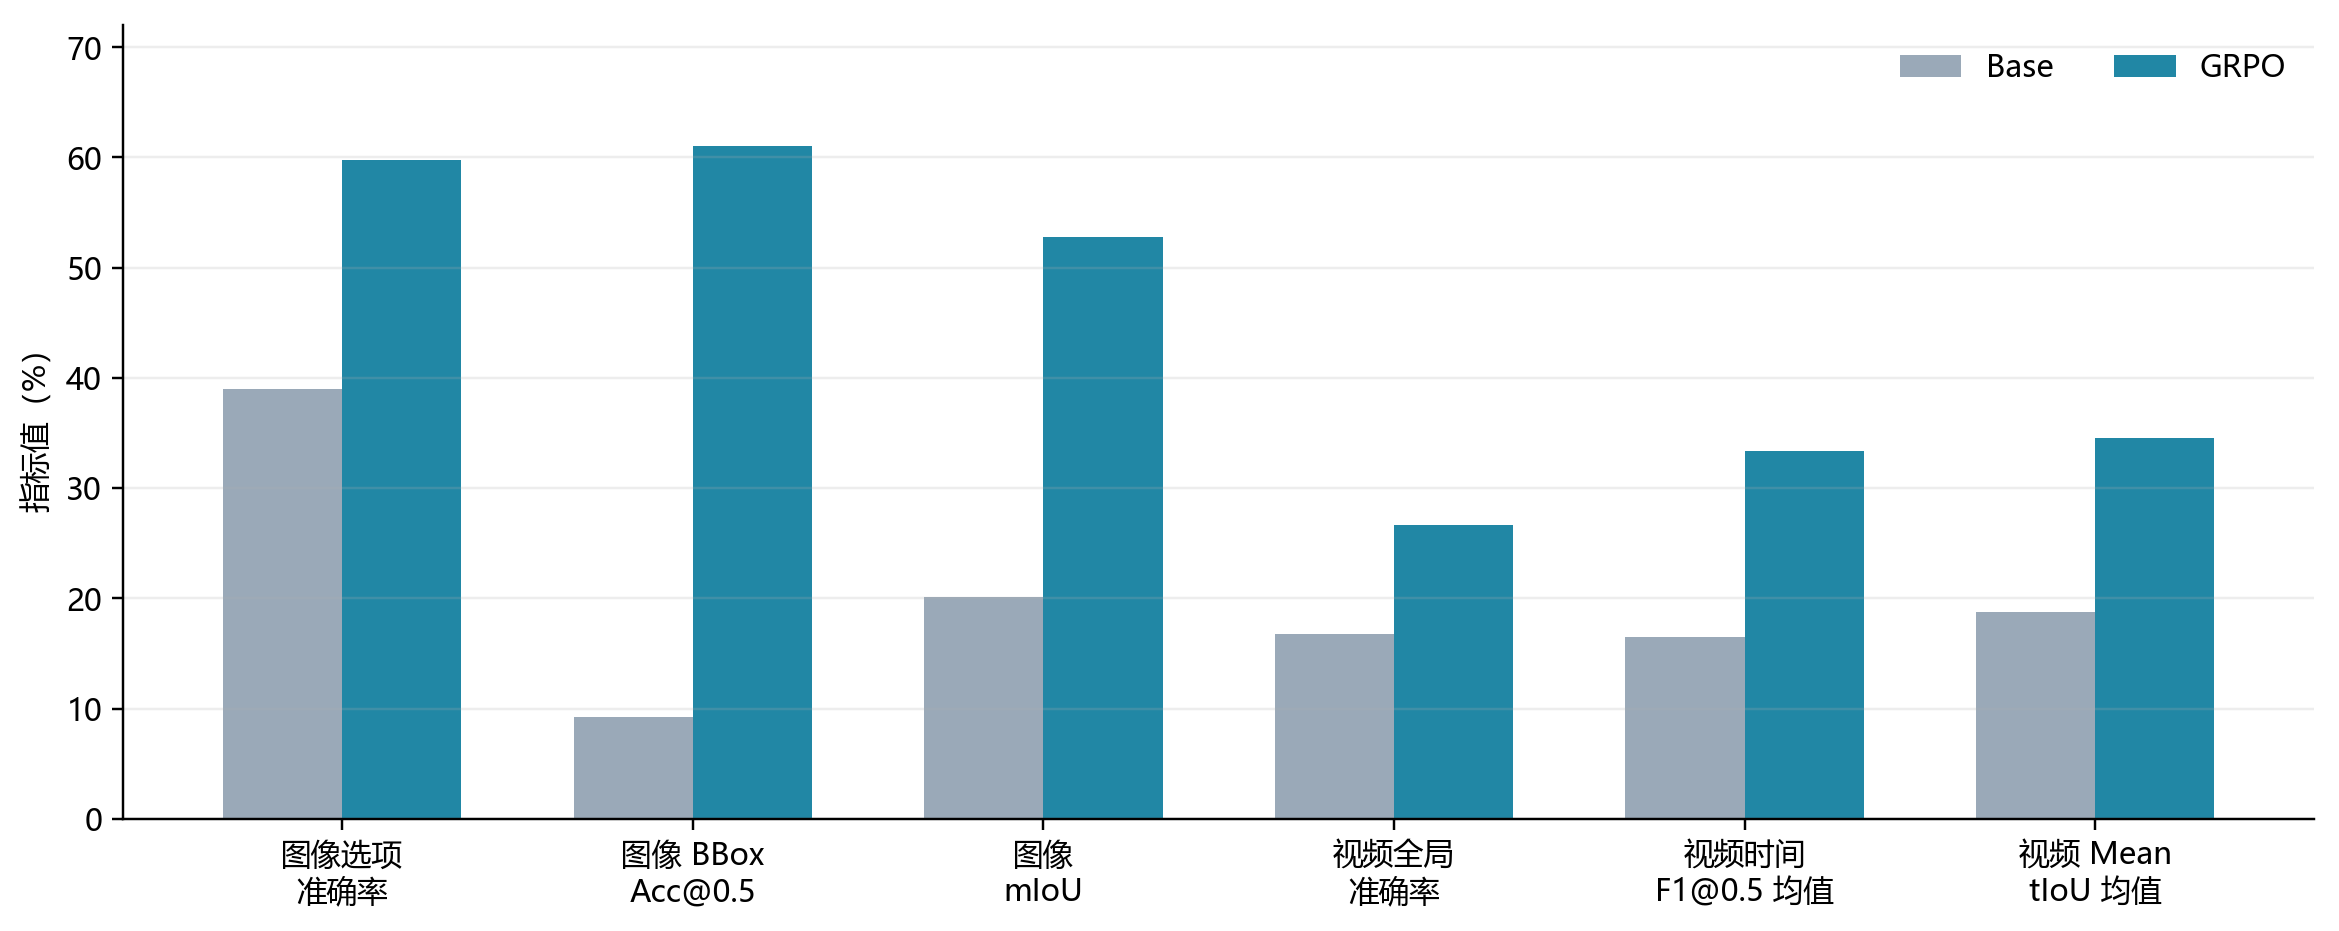
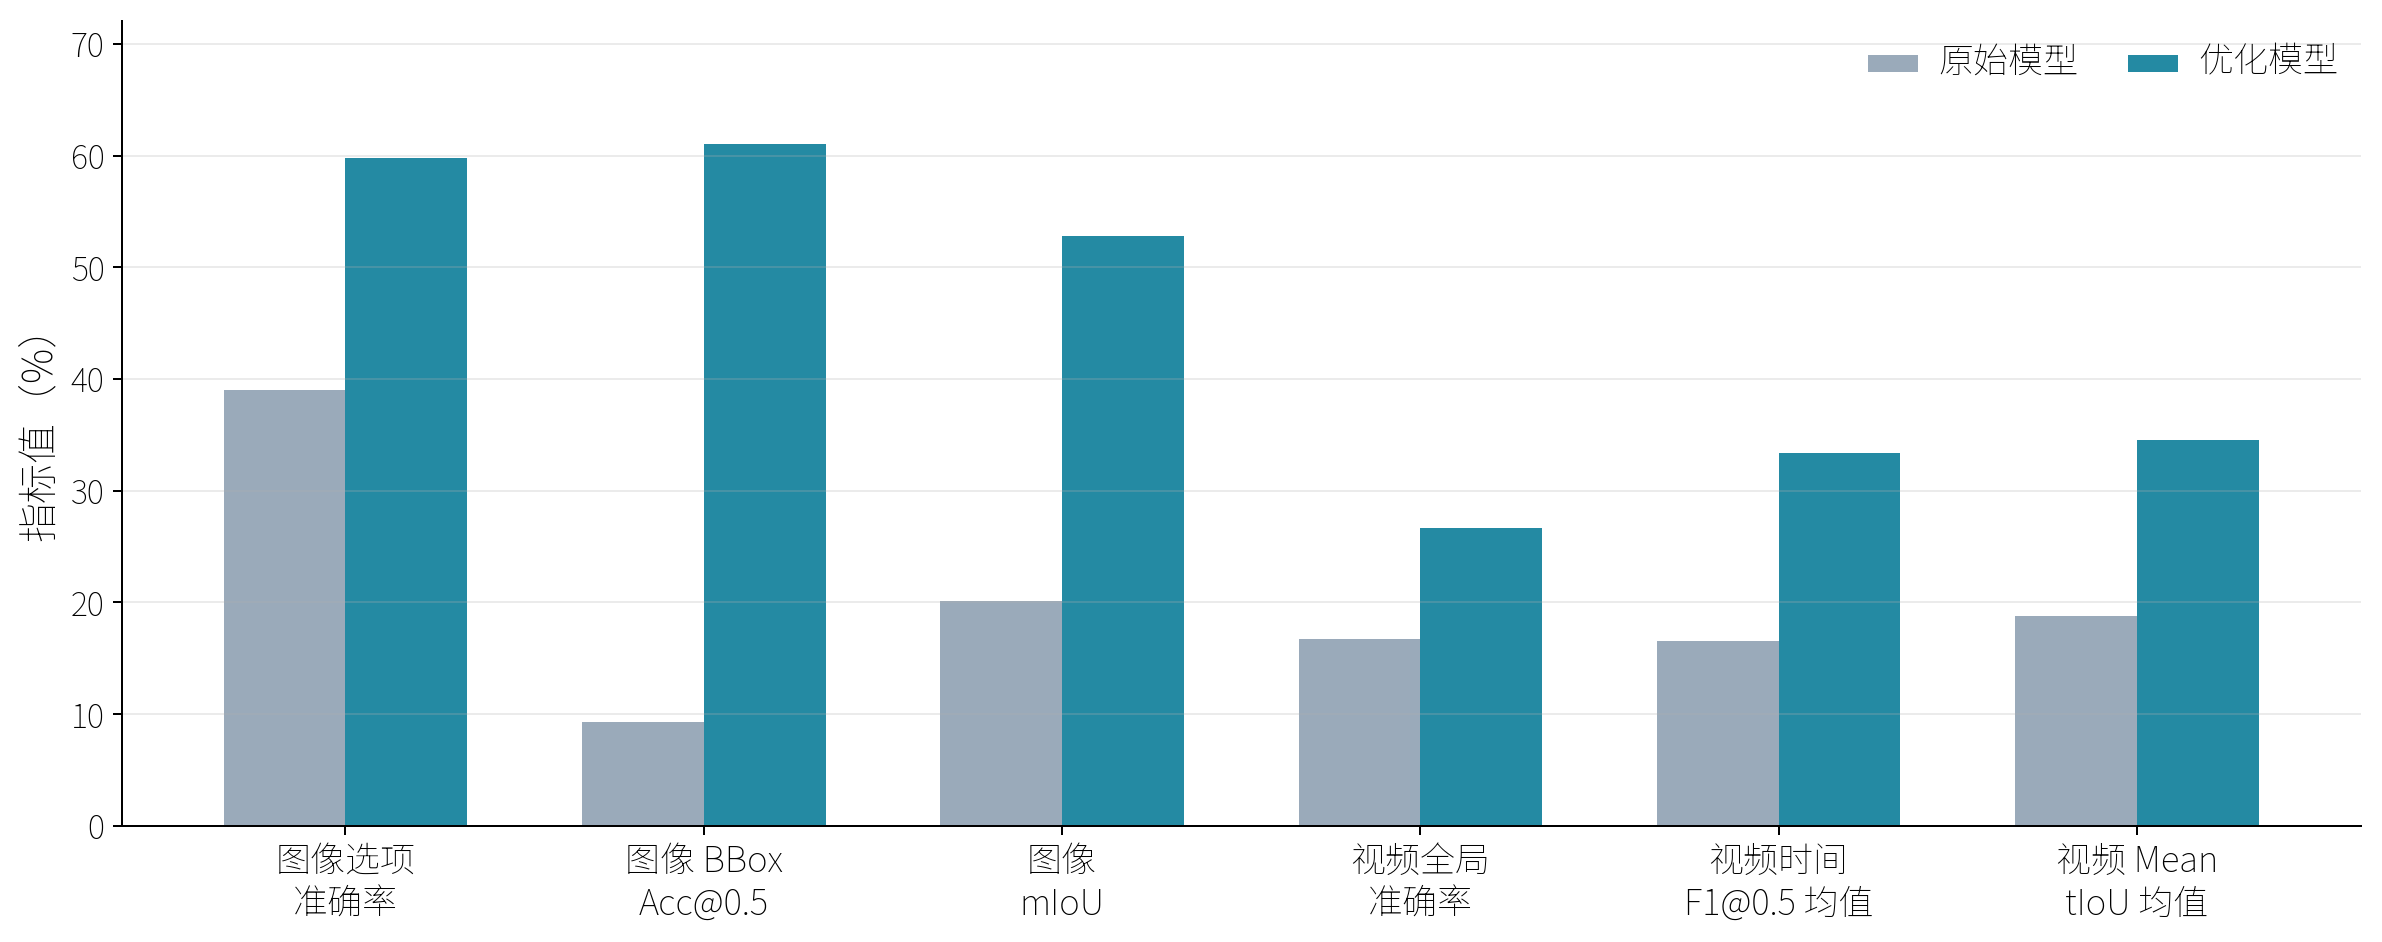
add: Add web UI appendix

diff --git a/content/thesis/undergraduate/chapter4.tex b/content/thesis/undergraduate/chapter4.tex
@@ -6,7 +6,7 @@
 
 \subsection{构建目标与场景隔离}
 
-第3章的评测结果表明，当前多模态大模型在 UAV-DualCog 上的主要问题是难以同时保持答案正确、证据可靠、跨媒介稳定以及自我状态认知与环境情况认知之间的协调发展。尤其是在图像任务中，模型常表现为选项判断相对较强、空间证据明显偏弱；在双认知维度上，自我状态认知长期落后于环境情况认知。因此，本文在测试基准之外进一步构建了面向后训练优化的图像任务训练集 UAV-DualCog-Train，并据此设计“监督微调+联合 GRPO”的能力优化方法。
+第3章的评测结果表明，当前多模态大模型在 UAV-DualCog 上的主要问题是难以同时保持答案正确、证据可靠、跨媒介稳定以及自我状态认知与环境情况认知之间的协调发展。尤其是在图像任务中，模型常表现为选项判断相对较强、空间证据明显偏弱；在双认知维度上，自我状态认知长期落后于环境情况认知。因此，本文在测试基准之外进一步构建了面向后训练优化的图像任务训练集 UAV-DualCog-Train，并据此设计“监督微调（Supervised Fine-Tuning, SFT）+联合群组相对策略优化（Group Relative Policy Optimization, GRPO）”的能力优化方法。
 
 UAV-DualCog-Train 使用与测试集严格隔离的训练场景构建，包含 \texttt{env\_1}、\texttt{env\_3}、\texttt{env\_5}、\texttt{env\_15}、\texttt{env\_18} 和 \texttt{env\_22} 六个场景，具体训练/测试场景划分见\autoref{tab:app-scene-split}。训练样本覆盖地标参照位置推理、未来观察预测、自我参照位置推理和地标驱动动作决策四类任务，对应自我状态认知与环境情况认知两条能力主线。当前优化阶段优先从图像任务起步，主要基于两点考虑：其一，第3章已经表明图像侧最集中地暴露了“语义判断与空间证据脱节”的问题；其二，图像任务适合将“离散答案+目标框证据”统一写成结构化监督目标，为后续监督微调和奖励优化共用同一套输出解析接口提供便利。
 
@@ -75,18 +75,18 @@ UAV-DualCog-Train-V1 的规模为
 
 \section{能力优化方法}
 
-\subsection{多模态监督微调}
+\subsection{多模态监督微调（SFT）}
 
-能力优化的第一阶段采用多模态监督微调。该阶段的目标是先为模型建立稳定的任务内输出接口，使其学会围绕 UAV-DualCog 的图像任务生成结构化的“答案+目标框”结果。在训练实现中，图像会由 \texttt{AutoProcessor} 编码为视觉张量参与前向和反向传播。因此，SFT 阶段的核心作用是让模型在多图像输入下稳定输出可解析的结构化答案。
+能力优化的第一阶段采用多模态监督微调（Supervised Fine-Tuning, SFT）。该阶段的目标是先为模型建立稳定的任务内输出接口，使其学会围绕 UAV-DualCog 的图像任务生成结构化的“答案+目标框”结果。在训练实现中，图像会由 \texttt{AutoProcessor} 编码为视觉张量参与前向和反向传播。因此，SFT 阶段的核心作用是让模型在多图像输入下稳定输出可解析的结构化答案。
 
 本文选择 \texttt{Qwen/Qwen3.5-4B} 作为当前能力优化的基座模型，主要基于三方面考虑。第一，第3章结果显示 Qwen 3.5-4B 已具备一定图像空间问答基础，其图像总体准确率为 39.0\%。第二，该模型在视频总体准确率和自我状态认知上仍有明显短板，具备清晰的优化空间。第三，4B 规模适合在现有四张 RTX 4090 的算力条件下进行多轮参数高效实验，并便于后续补充消融研究。
 
-在方法上，SFT 阶段使用 \texttt{AutoModelForImageTextToText}、\texttt{AutoProcessor} 和 \texttt{trl.SFTTrainer} 完成多模态 LoRA 微调。LoRA 仅在注意力和前馈网络的关键投影层上注入可训练低秩适配器，使模型在有限显存与训练步数下完成任务适配。训练时采用 \texttt{completion\_only\_loss}，即只对助手端的 JSON 输出部分计算损失，从而把格式学习、答案学习与证据学习统一绑定到同一训练接口中。为兼顾图像细节和显存稳定性，系统在加载训练图像时引入 \texttt{max\_image\_side} 控制项，使用 720 作为长边上限，以保留更充分的空间细节。具体训练入口、配置与关键代码见\autoref{app:optimization-entry}。
+在方法上，SFT 阶段使用 \texttt{AutoModelForImageTextToText}、\texttt{AutoProcessor} 和 \texttt{trl.SFTTrainer} 完成多模态低秩适配（Low-Rank Adaptation, LoRA）微调。LoRA 仅在注意力和前馈网络的关键投影层上注入可训练低秩适配器，使模型在有限显存与训练步数下完成任务适配。训练时采用 \texttt{completion\_only\_loss}，即只对助手端的 JSON 输出部分计算损失，从而把格式学习、答案学习与证据学习统一绑定到同一训练接口中。为兼顾图像细节和显存稳定性，系统在加载训练图像时引入 \texttt{max\_image\_side} 控制项，使用 720 作为长边上限，以保留更充分的空间细节。具体训练入口、配置与关键代码见\autoref{app:optimization-entry}。
 
 
-\subsection{联合GRPO优化}
+\subsection{联合群组相对策略优化（GRPO）}
 
-在完成结构化监督学习之后，本文进一步引入联合 GRPO 进行第二阶段优化。该阶段直接在 SFT 检查点基础上，以统一奖励函数同时约束输出格式、离散答案和目标框质量。多模态训练链路已经能够稳定支持真实图像输入和 JSON 输出解析，因此奖励优化可以围绕最终任务目标进行联合校正。
+在完成结构化监督学习之后，本文进一步引入联合群组相对策略优化（Group Relative Policy Optimization, GRPO）进行第二阶段优化。该阶段直接在 SFT 检查点基础上，以统一奖励函数同时约束输出格式、离散答案和目标框质量。多模态训练链路已经能够稳定支持真实图像输入和 JSON 输出解析，因此奖励优化可以围绕最终任务目标进行联合校正。
 
 联合 GRPO 的总体奖励形式为
 \begin{equation}
@@ -122,7 +122,7 @@ R = w_f R_{\text{format}} + w_s R_{\text{mcq}} + w_b R_{\text{bbox}},
 
 \subsection{训练环境与正式流程}
 
-能力优化实验在一台本地服务器上进行，硬件环境包括 \(2\times\) AMD EPYC 7452 CPU、503 GiB 内存和 \(4\times\) NVIDIA GeForce RTX 4090 GPU。训练过程采用 PyTorch、Transformers、PEFT 和 TRL 等框架完成单机多卡多模态 LoRA SFT 与联合 GRPO 优化，详细环境配置见\autoref{tab:app-train-hardware}。
+能力优化实验在一台本地服务器上进行，硬件环境包括 \(2\times\) AMD EPYC 7452 CPU、503 GiB 内存和 \(4\times\) NVIDIA GeForce RTX 4090 GPU。训练过程采用 PyTorch、Transformers、PEFT 和 TRL 等框架完成单机多卡多模态 LoRA-SFT 与联合 GRPO 优化，详细环境配置见\autoref{tab:app-train-hardware}。
 
 本文将训练流程组织为“数据准备、多模态 SFT、联合 GRPO、任务级评测”四个环节。首先，将 UAV-DualCog-Train 图像任务清单转换为 train/valid JSONL，并保留提示词、真实图像路径、标准 JSON completion 和目标框辅助字段；其次，SFT 阶段从 Qwen 3.5 4B 初始化，通过真实图像输入和 completion-only loss 学习稳定的结构化输出；再次，联合 GRPO 阶段以 SFT 模型为初始化模型，对同一输入生成多候选答案，并依据格式、答案和目标框奖励进行组相对优化；最后，将优化模型接入 UAV-DualCog-V1 测试集，评估图像任务直接收益和视频任务迁移效果。训练运行记录和完整性核查结果见\autoref{tab:app-train-run-summary}，训练入口、流程伪代码和奖励实现见\autoref{app:optimization-entry}。
 
@@ -131,7 +131,7 @@ R = w_f R_{\text{format}} + w_s R_{\text{mcq}} + w_b R_{\text{bbox}},
 
 \subsection{优化模型任务级评测结果}
 
-在训练完成后，本文将原始 Qwen 3.5 4B 模型作为 Base，将联合 GRPO 后得到的模型作为优化模型，在 UAV-DualCog-V1 的 12 个测试场景上进行统一评测。训练集仅来自与测试集场景隔离的图像任务，因此图像任务结果用于衡量优化方法的直接收益，视频任务结果用于观察图像侧证据感知训练是否能够迁移到时间证据推理中。
+在训练完成后，本文将原始 Qwen 3.5 4B 模型作为原始模型，将联合 GRPO 后得到的模型作为优化模型，在 UAV-DualCog-V1 的 12 个测试场景上进行统一评测。训练集仅来自与测试集场景隔离的图像任务，因此图像任务结果用于衡量优化方法的直接收益，视频任务结果用于观察图像侧证据感知训练是否能够迁移到时间证据推理中。
 
 
 \begin{table}[htbp]
@@ -148,8 +148,8 @@ R = w_f R_{\text{format}} + w_s R_{\text{mcq}} + w_b R_{\text{bbox}},
          &  & \multicolumn{3}{c}{地标参照位置推理} & \multicolumn{3}{c}{未来观察预测} & \multicolumn{3}{c}{自我参照位置推理} & \multicolumn{3}{c}{地标驱动动作决策} \\
          &  & Acc & BBox Acc@0.5 & mIoU & Acc & BBox Acc@0.5 & mIoU & Acc & BBox Acc@0.5 & mIoU & Acc & BBox Acc@0.5 & mIoU \\
         \midrule
-        Base & 38.99\% & 30.86\% & 12.79\% & 23.14\% & 30.18\% & 11.23\% & 21.69\% & 47.46\% & 6.74\% & 17.71\% & 47.46\% & 6.35\% & 17.96\% \\
-        GRPO & 59.77\% & 41.41\% & 74.90\% & 61.91\% & 37.21\% & 66.41\% & 57.36\% & 78.91\% & 52.64\% & 46.23\% & 81.54\% & 50.20\% & 45.63\% \\
+        原始模型 & 38.99\% & 30.86\% & 12.79\% & 23.14\% & 30.18\% & 11.23\% & 21.69\% & 47.46\% & 6.74\% & 17.71\% & 47.46\% & 6.35\% & 17.96\% \\
+        优化模型 & 59.77\% & 41.41\% & 74.90\% & 61.91\% & 37.21\% & 66.41\% & 57.36\% & 78.91\% & 52.64\% & 46.23\% & 81.54\% & 50.20\% & 45.63\% \\
         \bottomrule
       \end{tabular}%
     }
@@ -168,8 +168,8 @@ R = w_f R_{\text{format}} + w_s R_{\text{mcq}} + w_b R_{\text{bbox}},
         模型 & 全局准确率 & \multicolumn{3}{c}{复合行为识别} & \multicolumn{3}{c}{原子行为识别} & \multicolumn{3}{c}{地标可见性推理} \\
          &  & Acc/F1 & F1@0.5 & Mean tIoU & Acc/F1 & F1@0.5 & Mean tIoU & Count Acc & F1@0.5 & Mean tIoU \\
         \midrule
-        Base & 16.75\% & 6.37\% & 1.31\% & 1.40\% & 10.00\% & 3.04\% & 2.82\% & 33.89\% & 45.18\% & 51.99\% \\
-        GRPO & 26.67\% & 24.48\% & 26.90\% & 30.05\% & 24.17\% & 49.08\% & 43.96\% & 31.35\% & 24.23\% & 29.74\% \\
+        原始模型 & 16.75\% & 6.37\% & 1.31\% & 1.40\% & 10.00\% & 3.04\% & 2.82\% & 33.89\% & 45.18\% & 51.99\% \\
+        优化模型 & 26.67\% & 24.48\% & 26.90\% & 30.05\% & 24.17\% & 49.08\% & 43.96\% & 31.35\% & 24.23\% & 29.74\% \\
         \bottomrule
       \end{tabular}%
     }
@@ -182,7 +182,7 @@ R = w_f R_{\text{format}} + w_s R_{\text{mcq}} + w_b R_{\text{bbox}},
     \small
     \begin{tabularx}{\textwidth}{@{}X>{\centering\arraybackslash}p{2.0cm}>{\centering\arraybackslash}p{2.0cm}>{\centering\arraybackslash}p{2.0cm}@{}}
         \toprule
-        指标 & Base & GRPO & 提升值 \\
+        指标 & 原始模型 & 优化模型 & 提升值 \\
         \midrule
         图像选项准确率 & 38.99\% & 59.77\% & +20.78 pp \\
         图像 BBox Acc@0.5 & 9.27\% & 61.04\% & +51.76 pp \\
@@ -218,7 +218,7 @@ R = w_f R_{\text{format}} + w_s R_{\text{mcq}} + w_b R_{\text{bbox}},
         \toprule
         认知分支 & \multicolumn{2}{c}{选项准确率} & \multicolumn{2}{c}{BBox Acc@0.5} & \multicolumn{2}{c}{mIoU} \\
         \cmidrule(lr){2-3}\cmidrule(lr){4-5}\cmidrule(l){6-7}
-        & Base & GRPO & Base & GRPO & Base & GRPO \\
+        & 原始模型 & 优化模型 & 原始模型 & 优化模型 & 原始模型 & 优化模型 \\
         \midrule
         自我状态认知 & 30.52\% & 39.31\% & 11.99\% & 70.65\% & 22.41\% & 59.64\% \\
         环境情况认知 & 47.46\% & 80.22\% & 6.54\% & 51.42\% & 17.83\% & 45.93\% \\
@@ -237,7 +237,7 @@ R = w_f R_{\text{format}} + w_s R_{\text{mcq}} + w_b R_{\text{bbox}},
         \toprule
         任务类型 & \multicolumn{2}{c}{选项准确率} & \multicolumn{2}{c}{BBox Acc@0.5} & \multicolumn{2}{c}{mIoU} \\
         \cmidrule(lr){2-3}\cmidrule(lr){4-5}\cmidrule(l){6-7}
-        & Base & GRPO & Base & GRPO & Base & GRPO \\
+        & 原始模型 & 优化模型 & 原始模型 & 优化模型 & 原始模型 & 优化模型 \\
         \midrule
         地标参照位置推理 & 30.86\% & 41.41\% & 12.79\% & 74.90\% & 23.14\% & 61.91\% \\
         未来观察预测 & 30.18\% & 37.21\% & 11.23\% & 66.41\% & 21.69\% & 57.36\% \\
@@ -269,7 +269,7 @@ R = w_f R_{\text{format}} + w_s R_{\text{mcq}} + w_b R_{\text{bbox}},
         \toprule
         任务类型 & \multicolumn{2}{c}{语义/计数主指标} & \multicolumn{2}{c}{Temporal F1@0.5} & \multicolumn{2}{c}{Mean tIoU} \\
         \cmidrule(lr){2-3}\cmidrule(lr){4-5}\cmidrule(l){6-7}
-        & Base & GRPO & Base & GRPO & Base & GRPO \\
+        & 原始模型 & 优化模型 & 原始模型 & 优化模型 & 原始模型 & 优化模型 \\
         \midrule
         复合自我行为识别 & 6.37\% & 24.48\% & 1.31\% & 26.90\% & 1.40\% & 30.05\% \\
         原子自我行为识别 & 10.00\% & 24.17\% & 3.04\% & 49.08\% & 2.82\% & 43.96\% \\
@@ -304,8 +304,8 @@ R = w_f R_{\text{format}} + w_s R_{\text{mcq}} + w_b R_{\text{bbox}},
         \toprule
         模型 & 图像全局准确率 & 视频全局准确率 & 图像-视频差值 \\
         \midrule
-        Base & 38.99\% & 16.75\% & 22.24 pp \\
-        GRPO & 59.77\% & 26.67\% & 33.10 pp \\
+        原始模型 & 38.99\% & 16.75\% & 22.24 pp \\
+        优化模型 & 59.77\% & 26.67\% & 33.10 pp \\
         \bottomrule
     \end{tabularx}
 \end{table}
@@ -318,4 +318,4 @@ R = w_f R_{\text{format}} + w_s R_{\text{mcq}} + w_b R_{\text{bbox}},
 
 本章围绕第3章暴露出的能力短板，系统介绍了 UAV-DualCog 的能力优化方法与实验结果。首先，本文构建了与测试场景严格隔离的 UAV-DualCog-Train 图像任务训练集，并将其转换为包含提示词、真实图像路径和标准 JSON completion 的多模态训练记录。该训练集在任务类型、难度等级和双认知分组上保持平衡，为模型学习“答案+目标框”的结构化输出提供了数据基础。
 
-其次，本文完成了基于 Qwen 3.5 4B 的两阶段能力优化流程：多模态 LoRA SFT 用于建立稳定的结构化答案输出能力，联合 GRPO 则通过格式奖励、答案奖励和目标框奖励进一步强化语义-证据一致性。训练过程完整产出可评测模型。任务级评测显示，优化模型在图像任务上获得显著直接收益，图像选项准确率、BBox Acc@0.5 和 mIoU 分别提升 20.78、51.76 和 32.66 个百分点；在视频任务上，全局准确率提升 9.91 个百分点，但收益主要集中在自我行为识别和时间定位，环境可见性推理仍出现下降。由此可见，证据感知图像训练能够有效补强图像双认知能力并产生部分跨媒介迁移，但可靠无人机多模态系统仍需要进一步提升视频时序整合和跨媒介证据协同能力。
+其次，本文完成了基于 Qwen 3.5 4B 的两阶段能力优化流程：多模态 LoRA-SFT 用于建立稳定的结构化答案输出能力，联合 GRPO 则通过格式奖励、答案奖励和目标框奖励进一步强化语义-证据一致性。训练过程完整产出可评测模型。任务级评测显示，优化模型在图像任务上获得显著直接收益，图像选项准确率、BBox Acc@0.5 和 mIoU 分别提升 20.78、51.76 和 32.66 个百分点；在视频任务上，全局准确率提升 9.91 个百分点，但收益主要集中在自我行为识别和时间定位，环境可见性推理仍出现下降。由此可见，证据感知图像训练能够有效补强图像双认知能力并产生部分跨媒介迁移，但可靠无人机多模态系统仍需要进一步提升视频时序整合和跨媒介证据协同能力。

diff --git a/content/thesis/undergraduate/chapter1.tex b/content/thesis/undergraduate/chapter1.tex
@@ -5,37 +5,37 @@
 
 \section{研究背景与意义}
 
-近年来，多模态大模型在视觉问答、图像理解、视频理解和复杂推理等任务中取得了快速发展。随着模型视觉感知、语言理解和指令跟随能力的增强，研究者开始进一步关注其在具身智能体中的应用潜力，例如机器人操作、导航、无人机巡检和低空目标搜索等任务\cite{shao2026uavwithllm,zeng2023robotics,li2025perception,han2025survey,lin2024embodied}。与静态图像或普通视频理解不同，具身智能体的视觉输入通常由自身运动产生，观测内容会随着位置、姿态、视角和任务行为的变化而不断变化。因此，仅依靠通用图像问答指标，很难判断模型是否具备可靠的具身推理能力。
+近些年来，多模态大模型在视觉问答、图像理解、视频理解以及复杂推理等方面都取得了快速发展。随着模型视觉感知、语言理解和指令跟随能力的增强，研究者开始进一步关注其在具身智能体中的应用潜力，例如机器人操作、导航、无人机巡检和低空目标搜索等任务\cite{shao2026uavwithllm,zeng2023robotics,li2025perception,han2025survey,lin2024embodied}。与静态图像或者普通视频理解不同的是，具身智能体的视觉输入是由自身运动产生的，观测内容会随着位置、姿态、视角以及任务行为的变化而不断变化。因此，仅仅用通用图像问答指标来衡量模型是否有可靠的具身推理能力是不合适的。
 
-无人机是典型的主动观测智能体。低空无人机在开放三维空间中飞行时，观察对象可能因高度、朝向、距离和遮挡关系变化而产生显著外观差异\cite{shao2025uavvln}。对于无人机智能体而言，完成可靠推理并不只是识别外部地标或描述场景，还需要理解自身相对地标的位置、未来视角变化、当前飞行动作及其时间过程。换言之，无人机推理同时依赖对“自身状态”和“外部环境”的理解，这种能力结构比传统被动视觉理解更复杂。
+无人机属于典型的主动观测智能体。低空无人机在开放三维空间中飞行时，由于高度、朝向、距离以及遮挡状况的变化，会致使观测对象出现显著外观差异\cite{shao2025uavvln}。对无人机智能体而言，完成可靠推理不只是识别出外部的地标或者描述出场景，还要理解自身相对于地标的位置，未来的视角变化，当前所处的飞行动作以及时间过程。无人机推理要依靠对自身状态以及外界环境的把握，这样的能力结构要比传统的被动视觉理解更为复杂。
 
 现有无人机场景数据集和评测任务已经覆盖空中视觉语言导航、城市空间问答和低空目标搜索等方向\cite{liu2023aerialvln,lee2025citynav,zhao2025cityeqa,ji2026towards}。与此同时，空中视频理解、事件识别和目标检测类数据集也为无人机场景建模提供了重要基础\cite{li2021uavhuman,zhao2025urbanvideobench,barekatain2017okutama,du2018unmanned}。这些研究为无人机多模态任务奠定了基础，但多数工作仍以环境理解、导航成功率或事件识别为主要目标，对无人机自身状态的显式评测不足。与此同时，许多多模态大模型综合评测虽然能够衡量视觉问答、跨学科理解和空间关系推理能力\cite{fu2023mme,liu2024mmbench,yu2023mmvet,yue2024mmmu,ge2025mllm}，但其输入通常来自静态图像或弱时序视频，与无人机主动运动产生的多视角、连续时空观测仍存在差距\cite{xu2026citycube}。
 
-在能力优化方面，随着多模态大模型逐渐进入具身场景，研究重点也从单纯扩大模型规模转向面向任务目标的后训练优化。监督微调能够利用高质量样本让模型学习稳定的输入输出映射，LoRA、QLoRA 等参数高效微调方法则降低了多模态模型在有限算力条件下的适配成本。进一步地，基于可验证奖励的强化后训练方法开始被用于结构化推理、数学推理和工具调用等任务，使模型能够围绕格式合法性、答案正确性或证据质量进行定向校正。对于无人机双认知推理而言，能力优化不能只追求自然语言回答更流畅，而应围绕“答案是否正确、空间或时间证据是否可靠、不同认知分支是否协同”展开。因此，本文在完成能力评测之后，进一步构建图像任务训练集，并将监督微调与联合 GRPO 奖励优化结合，用于验证证据感知训练对无人机多模态双认知能力的补强作用。
+就能力优化而言，多模态大模型向具身场景推进的时候，研究重心由原来的扩大模型规模转变为面向任务目标的后训练优化。监督微调（Supervised Fine-Tuning, SFT）可以利用高质量样本使模型学会稳定的输入输出映射，而低秩适配（Low-Rank Adaptation, LoRA）、QLoRA 等参数高效微调方法又大大降低了多模态模型在有限算力下的适配成本。另外，基于可验证奖励的强化后训练方法被用来处理结构化推理、数学推理以及工具调用等任务，从而使模型可以针对格式合法性、答案正确性或者证据质量进行定向校正。无人机双认知推理能力优化不能只追求自然语言回答更加流畅，而应该从答案是否正确、空间或者时间证据是否可靠、不同认知分支是否协同等几个方面展开。因此，本文在完成能力测评之后，进一步创建图像任务训练集，并将 SFT 与联合群组相对策略优化（Group Relative Policy Optimization, GRPO）结合，检验证据感知训练对于无人机多模态双认知能力的加强效果。
 
-基于上述背景，本文围绕“多模态大模型是否能够在无人机主动观测场景中同时理解自身与外界，并给出可靠的空间或时间证据”这一问题展开研究。本文设计并构建的 UAV-DualCog 测试基准将无人机具身推理能力划分为自我状态认知和环境情况认知两条主线，在图像和视频两种媒介下设计六类任务，并将目标框和时间区间作为正式评测对象。该设计能够区分“语义判断正确但证据不足”和“语义与证据同时正确”两类情况，从而更细致地刻画多模态大模型在无人机场景中的真实能力。通过大规模、系统性评测确定当前多模态大模型“自我状态认知不足、语义与证据脱节和跨媒介稳定性”的问题后，本文构建 UAV-DualCog-Train 图像任务训练集，以 Qwen 3.5 4B 为基座模型进行包含监督微调和联合GRPO的两阶段微调，显著提升了模型的图像任务能力，并在视频任务中验证了部分跨媒介迁移效果。
+基于上述背景，本文围绕“多模态大模型是否能够在无人机主动观测场景中同时理解自身和外界，并给出可靠的空间或时间证据”这一问题展开研究。本文设计并构建的 UAV-DualCog 测试基准将无人机具身推理能力划分为自我状态认知和环境情况认知两条主线，在图像和视频两种媒介下设计六类任务，并将目标框和时间区间作为正式评测对象。该设计能够区分“语义判断正确但证据不足”和“语义与证据同时正确”两类情况，从而更细致地刻画多模态大模型在无人机场景中的真实能力。通过大规模、系统性评测确定当前多模态大模型“自我状态认知不足、语义与证据脱节和跨媒介稳定性”的问题后，本文构建 UAV-DualCog-Train 图像任务训练集，以 Qwen 3.5 4B 为基座模型进行包含 SFT 和联合 GRPO 的两阶段微调，显著提升了模型的图像任务能力，并在视频任务中验证了部分跨媒介迁移效果。
 
 \section{研究目标与主要内容}
 
 本文的总体目标是完成一套面向无人机双认知时空推理的多模态大模型能力评测与优化方法研究。研究线路分为两个相互衔接且并列展开的部分：第一，构建 UAV-DualCog 测试基准并系统评估当前多模态大模型在无人机双认知任务中的能力结构；第二，根据评测中暴露出的语义与证据脱节、自我状态认知不足和跨媒介稳定性不足等问题，构建 UAV-DualCog-Train 训练集，并实现基于监督微调和 GRPO 的能力优化方法。论文正文完整呈现能力测试方法与实验、能力优化方法与实验，以及两部分之间的证据关联。
 
-围绕上述目标，本文已经完成的主要工作可以整合为三个方面。
+围绕上述目标，本文完成的工作可以概括为三个方面。
 
 第一，构建面向无人机具身推理的双认知能力体系。本文将无人机多模态推理拆分为自我状态认知和环境情况认知两类顶层能力：前者关注无人机对自身位置、未来视角、飞行行为和行为时间区间的理解，后者关注无人机对目标方位、动作决策、地标可见次数和可见区间的理解。该体系为后续任务设计、数据构建和实验分析提供统一能力框架。
 
 第二，完成 UAV-DualCog 评测任务、测试集构建、系统评测及结果分析。本文设计四类图像任务和两类视频任务，形成“能力维度、观测媒介、证据形式”相结合的三维评测结构；同时实现四阶段自动化数据构建工具链，以 AerialVLN 仿真场景为基础完成场景扫描与点云融合、地标资产构建与语义标注、行为驱动视频任务生成和证据感知图像任务生成。在此基础上，本文对闭源模型、开源模型和空间推理微调模型进行统一评测，分析语义正确率、空间定位质量、时间定位质量、跨媒介一致性和双认知平衡性等能力结构。
 
-第三，完成训练集构建、能力优化方法设计、优化实验及结果分析。根据评测中暴露出的自我状态认知不足、语义与证据脱节和跨媒介稳定性不足等问题，本文构建与测试场景隔离的图像任务训练集，并以 Qwen 3.5 4B 为基座模型，实现多模态监督微调和围绕格式、语义、空间证据的联合 GRPO 优化路线。训练完成后，本文进一步对优化模型进行图像任务直接收益和视频任务迁移效果分析。
+第三，完成训练集构建、能力优化方法设计、优化实验及结果分析。根据评测中暴露出的自我状态认知缺乏、语义与证据脱离、跨媒介稳定性欠缺等状况，本文构建与测试场景隔离的图像任务训练集，并以 Qwen 3.5 4B 为基座模型，经由多模态监督微调并围绕格式、语义、空间证据展开联合 GRPO 来进行能力优化。训练完成后，本文进一步对优化模型进行图像任务直接收益和视频任务迁移效果分析。
 
 \section{本文主要贡献}
 
 本文的主要贡献可以概括为以下三点。
 
-首先，本文面向无人机场景提出并整理了双认知时空推理评测框架。不同于现有无人机视觉语言导航、目标搜索或通用视觉问答评测主要关注外部环境理解和任务完成结果，该框架将“理解自身”和“理解外界”同时纳入顶层能力设计，使评测更加贴近具身无人机的真实推理需求。
+首先，本文面向无人机场景设计并构建了双认知时空推理评测框架。不同于现有无人机视觉语言导航、目标搜索或通用视觉问答评测主要关注外部环境理解和任务完成结果，该框架将“理解自身”和“理解外界”同时纳入顶层能力设计，使评测更加贴近具身无人机的真实推理需求。
 
 其次，本文实现了从场景几何数据到图像、视频问答样本的完整数据集构建链路。与只依赖人工收集图像或视频的静态数据集不同，该链路以 AerialVLN 仿真场景、语义点云、地标复核、层次化飞行行为和结构化任务导出为基础，形成包含 12 个测试场景、512 个有效地标、4096 个图像任务样本和 2048 个视频任务样本的稳定测试集。
 
-最后，本文形成了从能力评测到能力优化的研究闭环。实验表明，当前模型在无人机场景中能够捕捉部分目标、方位和动态线索，但尚未形成稳定、均衡、可证据验证的双认知能力。特别是自我状态认知显著弱于环境情况认知，语义正确性也不能自动转化为空间或时间证据可靠性。基于这些发现，本文进一步实现了包含监督微调和联合GRPO的两阶段证据感知训练路线，并对优化模型进行任务级评测。结果显示，优化模型在图像任务上显著提升答案正确性和空间证据质量，在视频任务上的全局准确率也有所提升。
+最后，本文形成了从能力评测到能力优化的研究闭环。实验表明，当前模型在无人机场景中能够捕捉部分目标、方位和动态线索，但是还没有形成稳定的、均衡的、可以被证据验证的双认知能力。尤其是自我状态认知明显低于环境情况认知，语义正确性也不能直接转化为空间或者时间的证据可靠性。基于这些发现，本文进一步实现了包含 SFT 和联合 GRPO 的两阶段证据感知训练路线，并对优化模型进行任务级评测。结果显示，优化模型在图像任务上显著提升答案正确性和空间证据质量，在视频任务上的全局准确率也有所提升。
 
 
 \section{论文组织结构}

diff --git a/content/thesis/undergraduate/abstract.tex b/content/thesis/undergraduate/abstract.tex
@@ -5,8 +5,8 @@
 
     在能力测试方面，本文实现了从 AerialVLN 仿真场景扫描、语义点云融合、地标资产复核、行为驱动视频生成到证据感知图像任务生成的四阶段自动化工具链，形成包含 12 个测试场景、512 个有效地标、4096 个图像样本和 2048 个视频样本的测试集。实验部分对闭源模型、开源模型和空间推理微调模型进行了统一评测，并从语义正确性、空间定位、时间定位、跨媒介迁移和双认知平衡等角度进行分析。结果表明，当前多模态大模型具备一定无人机场景理解能力，但仍普遍存在语义与证据脱节、自我状态认知弱于环境情况认知、跨媒介稳定性不足等问题。
 
-    在能力优化方面，本文进一步实现了 UAV-DualCog-Train 训练集构建方案和基于 Qwen 3.5 4B 的优化方法。该训练方法采用多模态LoRA监督微调和联合GRPO奖励优化来使模型学习结构化的答案+目标框的输出，并加强语义与证据的一致性。通过实验结果可知，优化模型在图像任务上获得了显著直接效益，图像全局准确率提升 20.78\%，空间证据指标同步改善，在视频任务上全局准确率提升 9.91\%，证明图像侧证据感知训练能够产生部分跨媒介迁移。与此同时，可靠无人机多模态系统还要继续提高视频时序整合能力，解决图像空间证据和视频时间证据之间的跨媒介协同问题。
-    \keywordslist{无人机, 多模态大模型, 时空推理, 测试基准, 监督微调，群组相对策略优化}
+    在能力优化方面，本文进一步实现了 UAV-DualCog-Train 训练集构建方案和基于 Qwen 3.5 4B 的优化方法。该训练方法采用多模态低秩适配（Low-Rank Adaptation, LoRA）监督微调（Supervised Fine-Tuning, SFT）和联合群组相对策略优化（Group Relative Policy Optimization, GRPO），使模型学习结构化的答案+目标框输出，并加强语义与证据的一致性。通过实验结果可知，优化模型在图像任务上获得了显著直接效益，图像全局准确率提升 20.78\%，空间证据指标同步改善，在视频任务上全局准确率提升 9.91\%，证明图像侧证据感知训练能够产生部分跨媒介迁移。与此同时，可靠无人机多模态系统还要继续提高视频时序整合能力，解决图像空间证据和视频时间证据之间的跨媒介协同问题。
+    \keywordslist{无人机, 多模态大模型, 时空推理, 测试基准, 监督微调（SFT）, 群组相对策略优化（GRPO）}
 \end{abstract}
 
 \begin{engabstract}

diff --git a/content/thesis/undergraduate/chapter5.tex b/content/thesis/undergraduate/chapter5.tex
@@ -9,7 +9,7 @@
 
 在能力测试方面，本文构建了 UAV-DualCog 双认知测试基准，定义了四类图像任务和两类视频任务，形成“能力维度、观测媒介、证据形式”相结合的评测结构。数据构建上，本文实现了从 AerialVLN 仿真场景到测试样本的四阶段工具链，覆盖场景扫描与语义点云融合、地标挖掘与人工复核、行为驱动视频任务构建和证据感知图像任务构建，最终形成包含 12 个测试场景、512 个有效地标、4096 个图像任务样本和 2048 个视频任务样本的测试集。实验部分对闭源模型、开源模型和空间推理微调模型进行了统一评测，结果表明当前模型仍存在语义判断与显式证据脱节、自我状态认知弱于环境情况认知、图像与视频之间迁移不充分等问题。这些发现说明，面向无人机具身推理的评测不能只关注最终答案是否正确，还必须同时考察空间目标框、时间区间和双认知平衡。
 
-在能力优化方面，本文根据评测发现构建了 UAV-DualCog-Train 图像任务训练集，并实现了以 Qwen 3.5 4B 为基座的两阶段优化路线。第一阶段采用真实图像输入的多模态 LoRA 监督微调，使模型学习稳定的结构化“答案+目标框”输出；第二阶段采用联合 GRPO，同时引入格式、语义和空间证据奖励，对语义-证据一致性进行进一步校正。任务级评测表明，优化模型在图像任务上取得显著直接收益，相比 Base 模型，图像选项准确率、BBox Acc@0.5 和 mIoU 分别提升 20.78、51.76 和 32.66 个百分点；在视频任务上，按复合行为识别、原子行为识别和地标可见性三类任务 Acc 算术平均计算的全局准确率提升 9.91 个百分点，但收益呈现迁移分化：自我行为识别与时间定位明显提升，环境可见性时序推理下降。该结果将第3章发现的能力短板转化为第4章中可执行、可验证的训练目标和实验证据，使论文形成从能力测试到能力优化的闭环。
+在能力优化方面，本文根据评测发现构建了 UAV-DualCog-Train 图像任务训练集，并实现了以 Qwen 3.5 4B 为基座的两阶段优化路线。第一阶段采用真实图像输入的多模态低秩适配监督微调（LoRA-SFT），使模型学习稳定的结构化“答案+目标框”输出；第二阶段采用联合群组相对策略优化（GRPO），同时引入格式、语义和空间证据奖励，对语义-证据一致性进行进一步校正。任务级评测表明，优化模型在图像任务上取得显著直接收益，相比原始模型，图像选项准确率、BBox Acc@0.5 和 mIoU 分别提升 20.78、51.76 和 32.66 个百分点；在视频任务上，按复合行为识别、原子行为识别和地标可见性三类任务 Acc 算术平均计算的全局准确率提升 9.91 个百分点，但收益呈现迁移分化：自我行为识别与时间定位明显提升，环境可见性时序推理下降。该结果将第3章发现的能力短板转化为第4章中可执行、可验证的训练目标和实验证据，使论文形成从能力测试到能力优化的闭环。
 
 \section{主要结论}
 